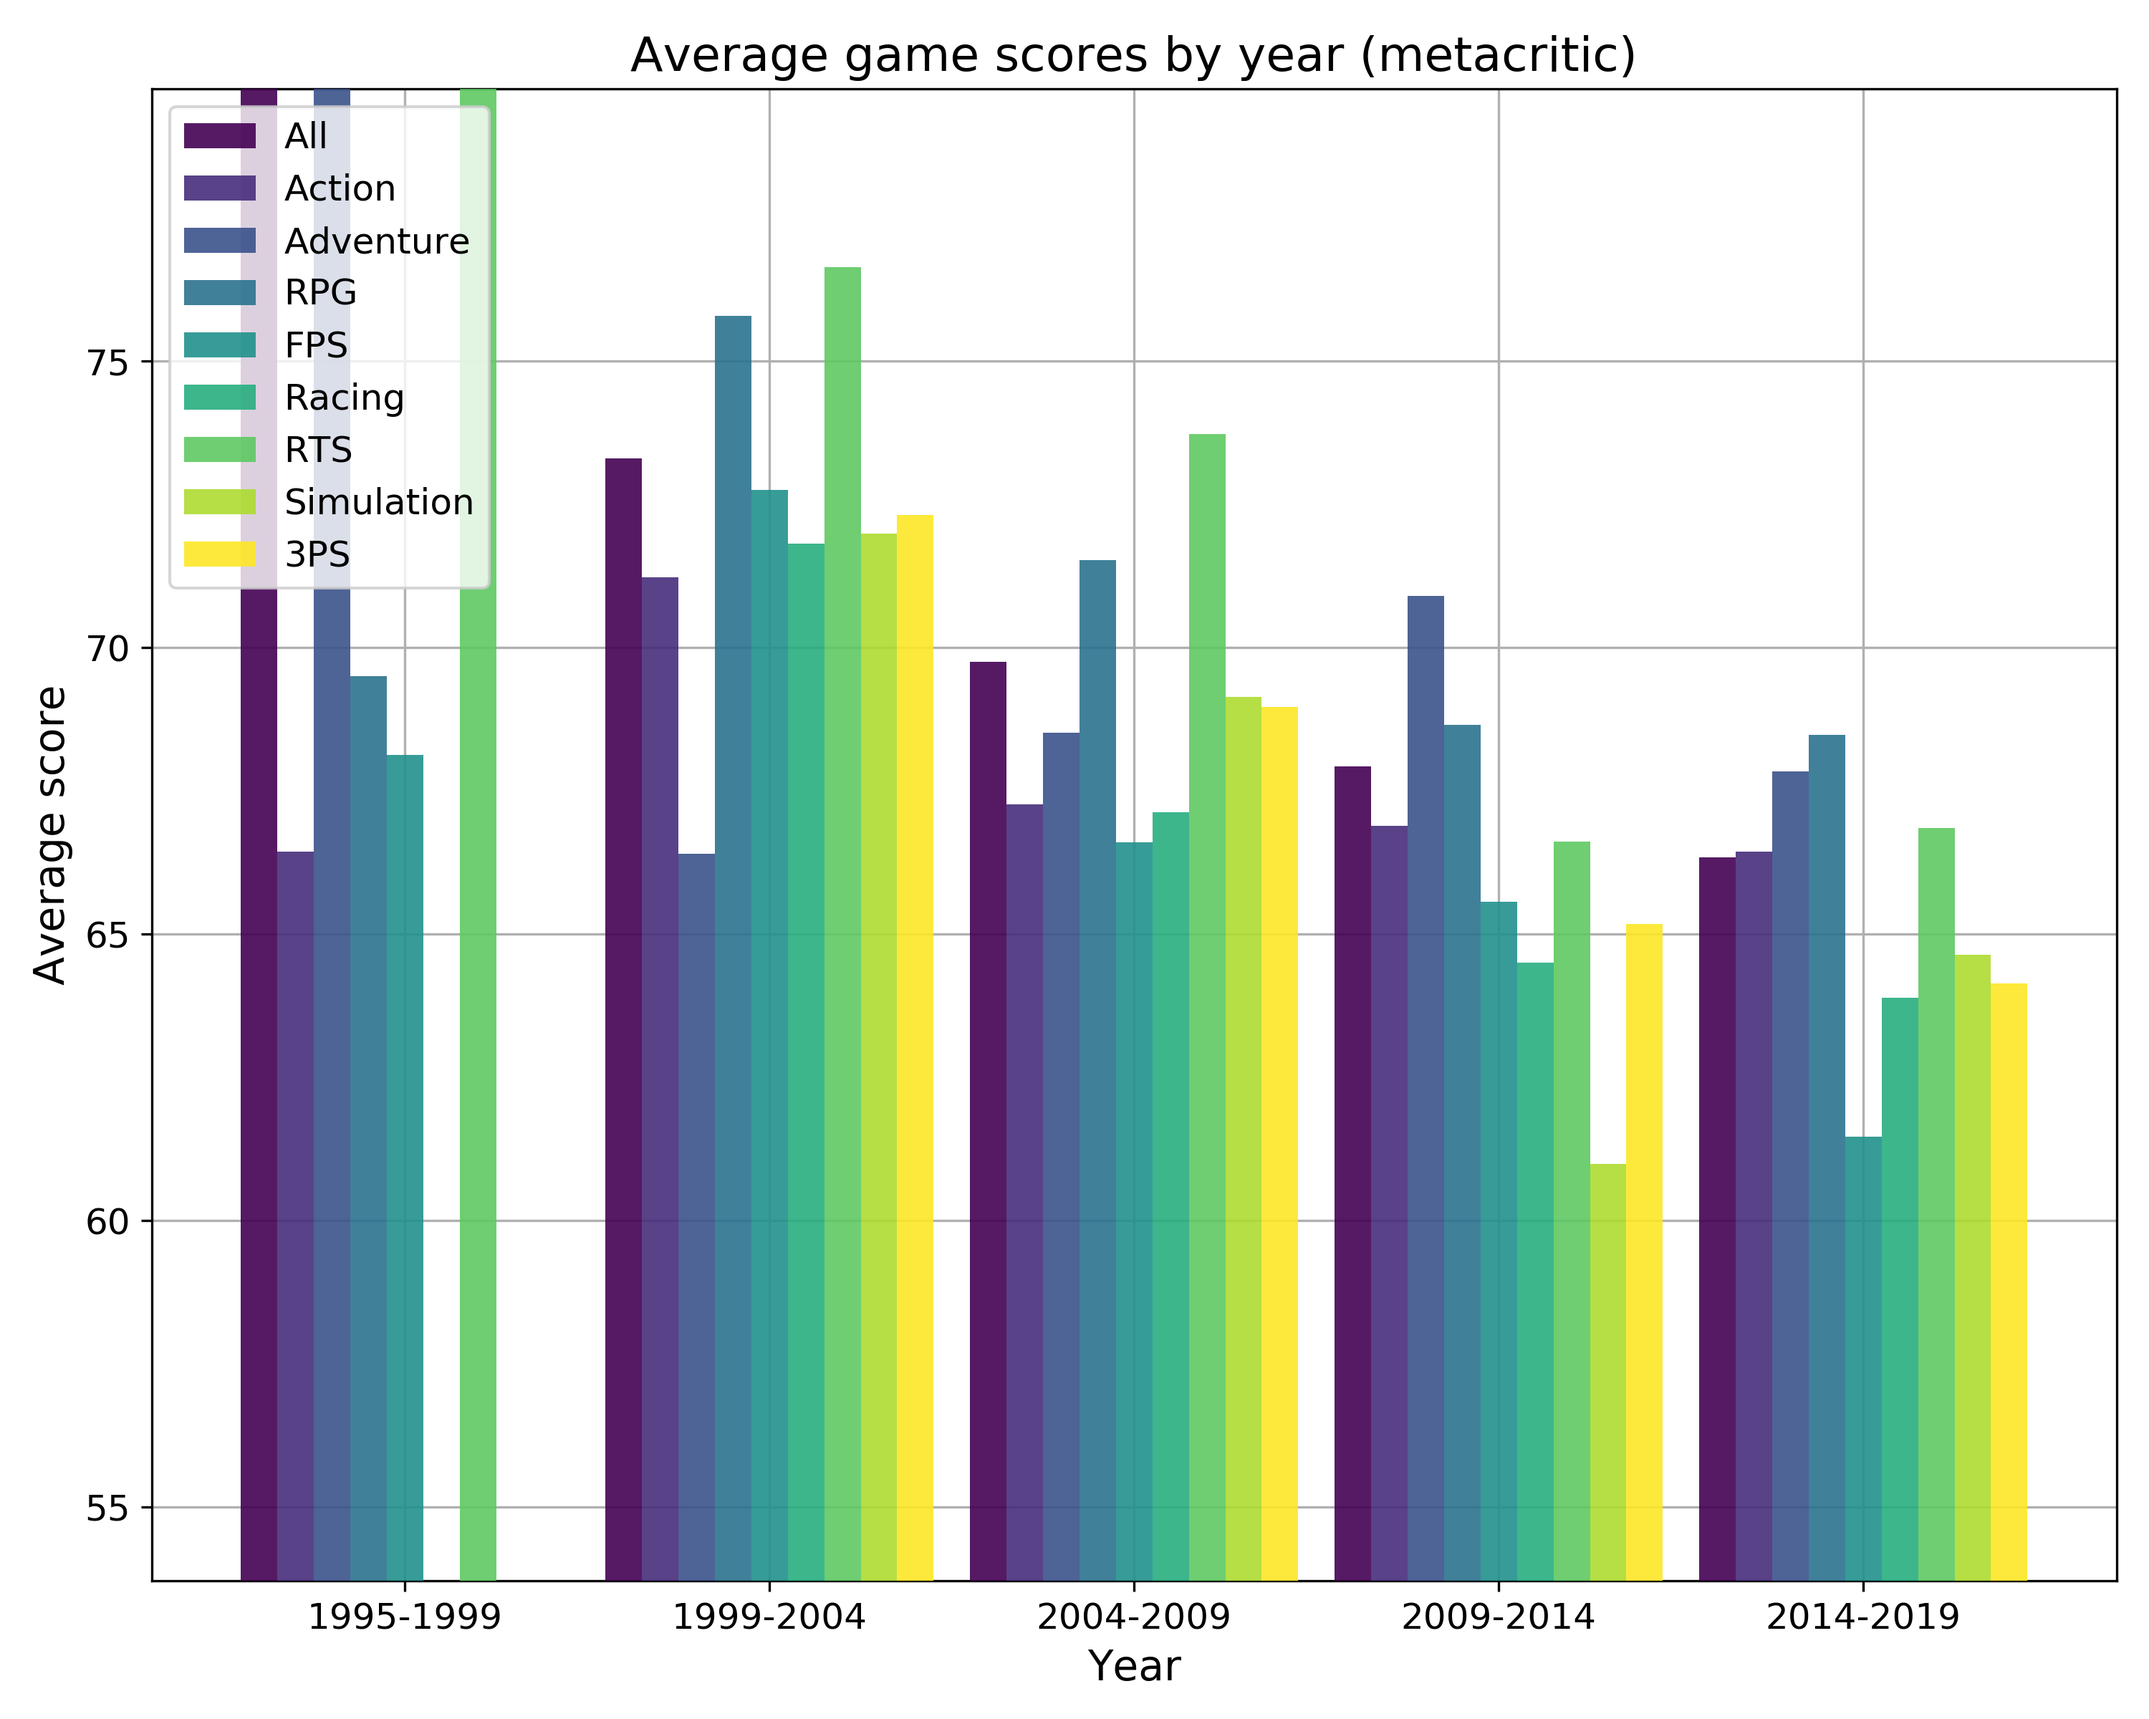
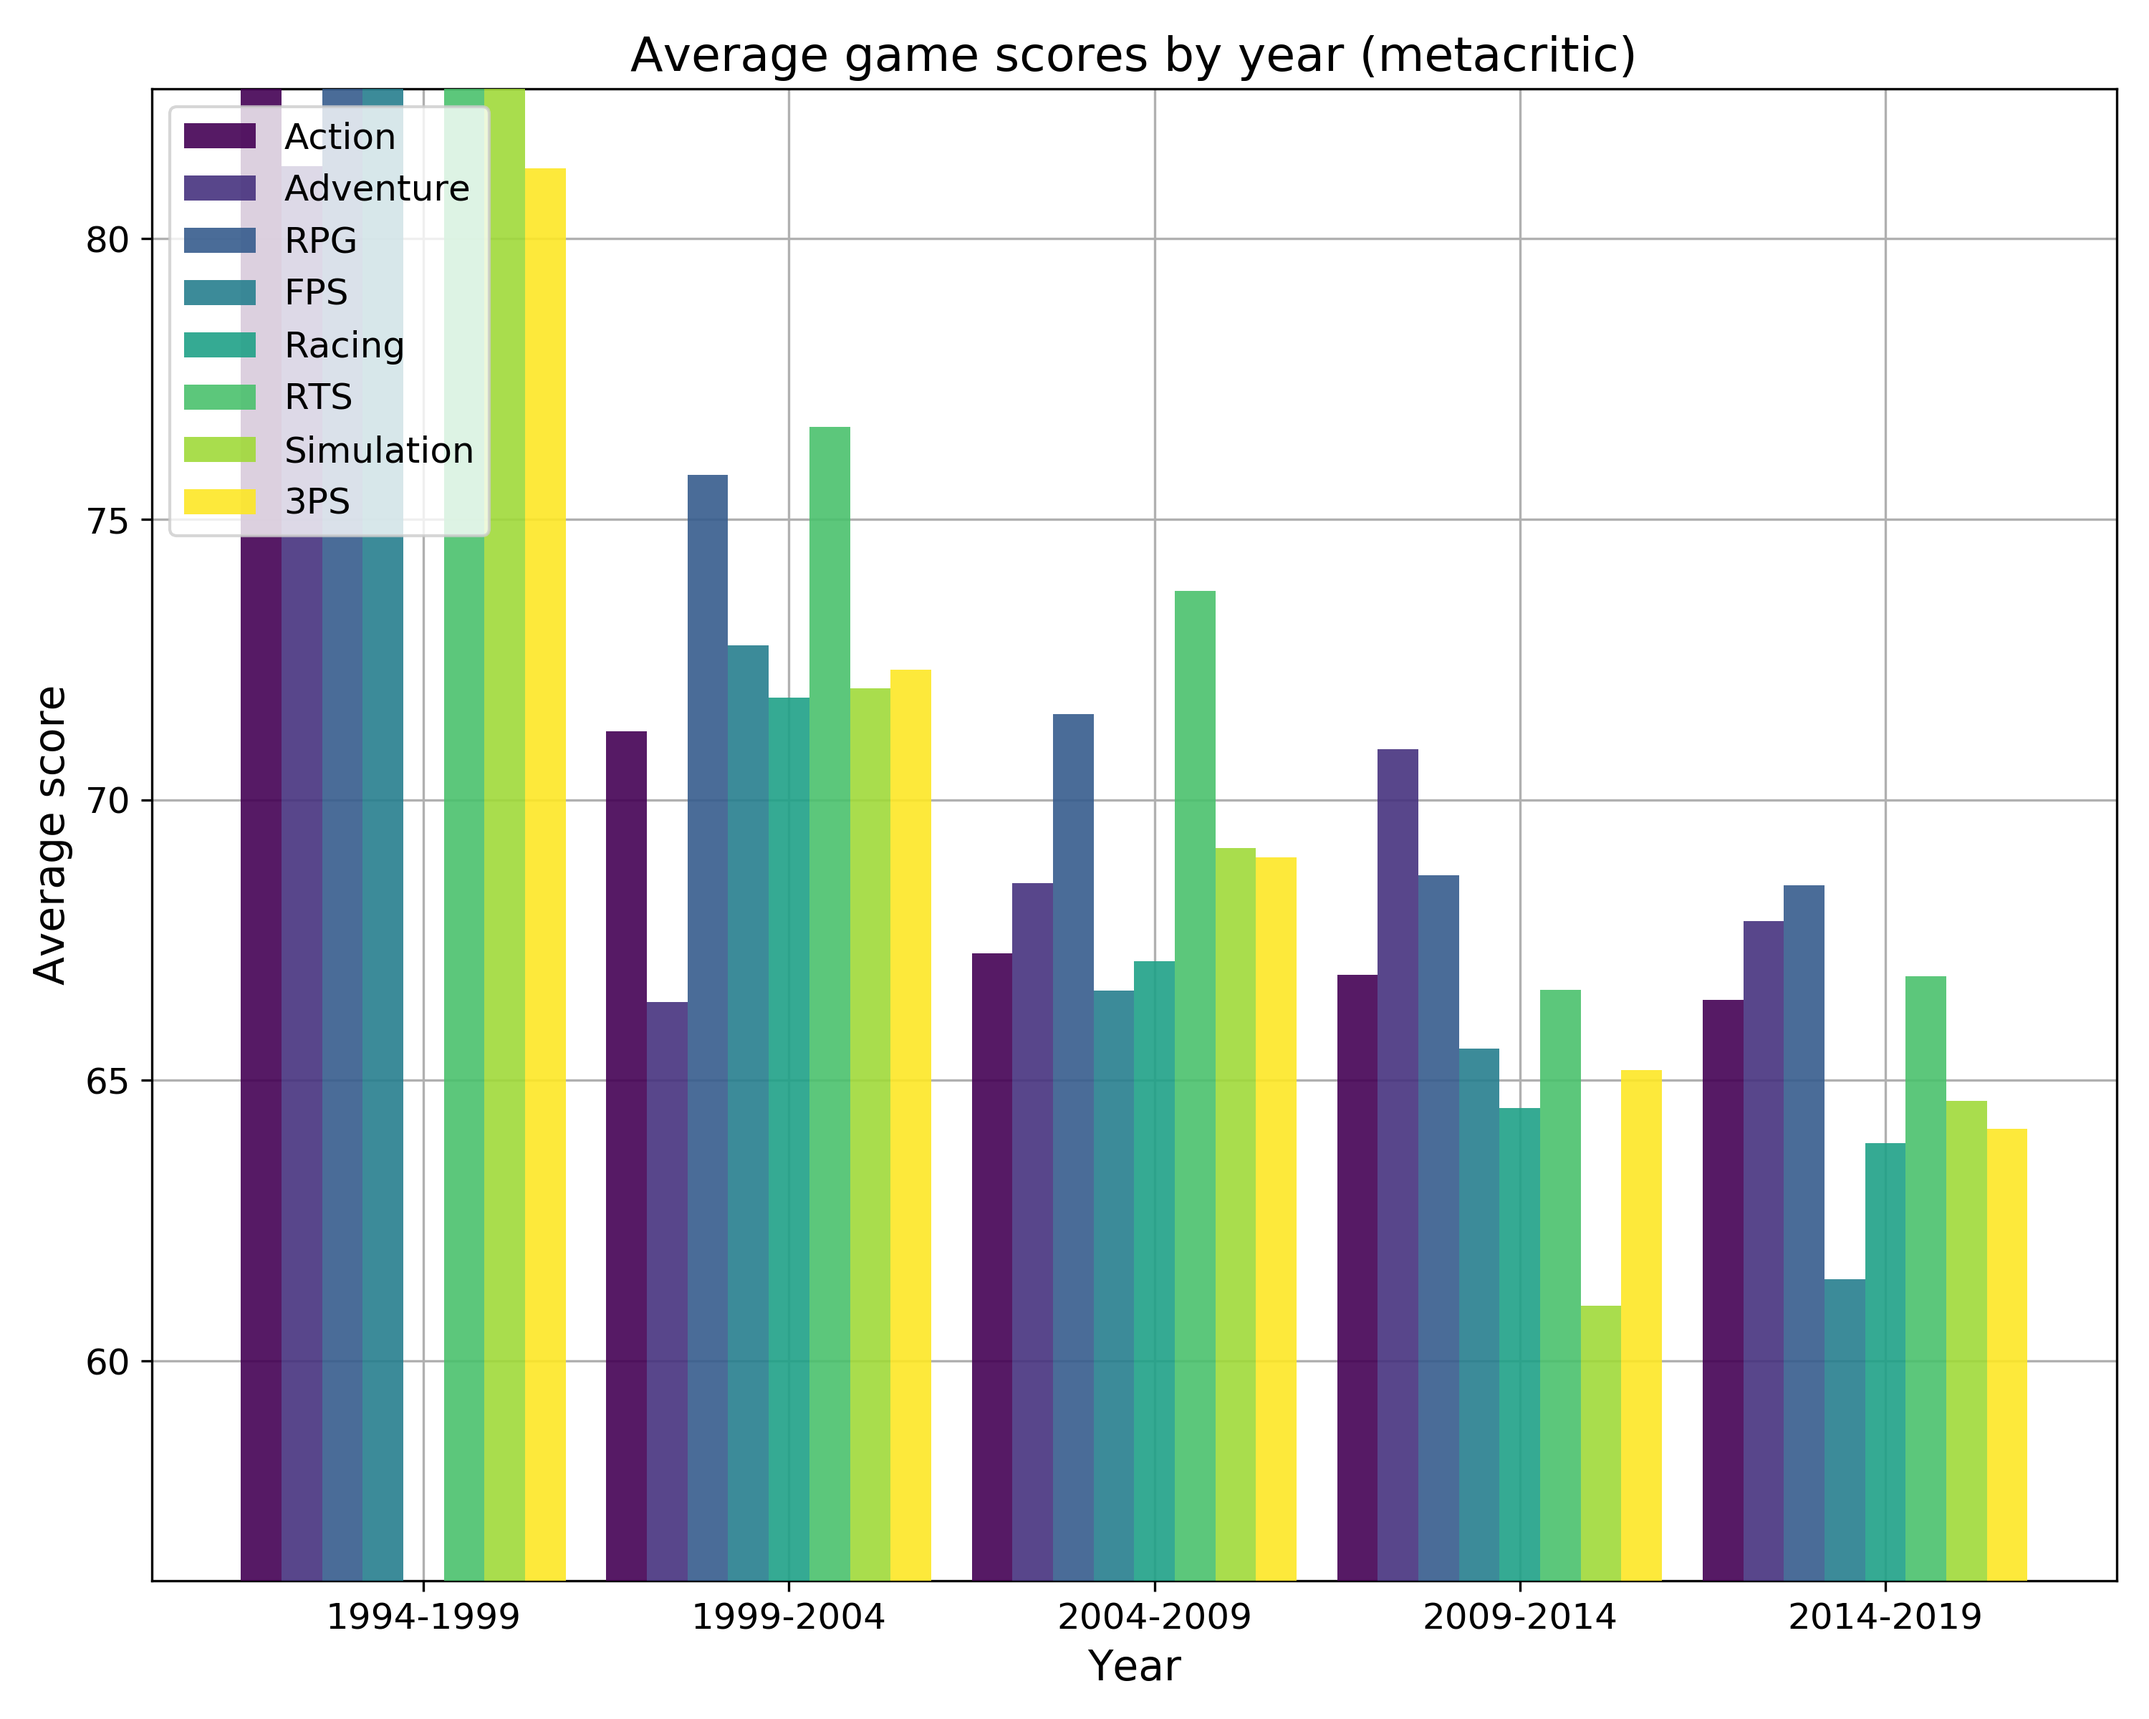
added results over min score (e.g. greater than 80) fixed averaging per genre and time frame (0 cases)

diff --git a/process_compare.py b/process_compare.py
@@ -29,6 +29,15 @@ def load_titles_per_year(df, source, label):
     return [years, scores]
 
 
+def get_score(s):
+    sd = 0
+    try:
+        sd = int(float(s)*10)
+    except:
+        pass
+    return sd
+
+
 def load_score_per_year(df, source, label):
 
     df = pd.DataFrame(df, columns=['release_date', 'score'])
@@ -37,16 +46,6 @@ def load_score_per_year(df, source, label):
         lambda e: int(e.split("-")[0]))
 
     df = df.drop(columns=["release_date"])
-
-    def get_score(s):
-        sd = 0
-        try:
-            sd = int(float(s)*10)
-        except:
-            pass
-        return sd
-
-    df["score"] = df["score"].apply(lambda e: get_score(e))
 
     filter = df["score"] != 0
     df = df[filter]
@@ -92,6 +91,10 @@ def load_score_per_year(df, source, label):
 
     return [years, scores]
 
+
+def save_csv(data):
+    pass
+
 # first file must be ALL
 
 
@@ -108,8 +111,16 @@ names = ["Action", "Adventure", "RPG",
 
 top_limit = None
 
+# top_limit = 1000
+# top_limit = 100
+
 plot_scores = True
 plot_scores = False
+
+min_score = None
+# min_score = 80
+# min_score = 70
+# min_score = 65
 
 n_group = 5
 
@@ -130,6 +141,12 @@ for top_limit_group in top_limit_group_vect:
 
     if top_limit_group is not None:
         filename += "_top_" + str(top_limit_group) + "_group"
+
+    if top_limit is not None:
+        filename += "_of_" + str(top_limit)
+
+    if min_score is not None:
+        filename += "_over_" + str(min_score)
 
     filename += ".png"
 
@@ -153,46 +170,49 @@ for top_limit_group in top_limit_group_vect:
 
     for i in range(len(files)):
         d = load_class_data(files[i])
-        d["score"] = d["user_score"]
 
         # user score!
         d["score"] = d["user_score"]
-        filter = d["user_score"] != "tbd"
+
+        d["score"] = d["score"].apply(lambda e: get_score(e))
+
+        filter = d["score"] != "tbd"
         d = d[filter]
+
+        if min_score is not None:
+            filter = d["score"].apply(
+                lambda e: e >= min_score)
+            d = d[filter]
 
         filter = d["release_date"].apply(
             lambda e: int(e.split("-")[0])) != 2020
 
         d = d[filter]
 
-        d = d.sort_values(by=['user_score'], ascending=False)
-
-        def get_score(s):
-            sd = 0
-            try:
-                sd = int(float(s)*10)
-            except:
-                print("exception")
-                pass
-            return sd
-
-        d["user_score"] = d["user_score"].apply(lambda e: get_score(e))
+        d = d.sort_values(by=['score'], ascending=False)
 
         if top_limit is not None:
             d = d[:top_limit]
+
+        print(len(d))
+
+        # quit()
 
         if plot_scores:
             years, scores = load_score_per_year(d, "metacritic", names[i])
         else:
             years, scores = load_titles_per_year(d, "metacritic", names[i])
 
+        # print("scores: ", scores)
+
         if not got_years:
             got_years = True
             years_all = years
+
         data.append(d)
         scores_vect.append(scores)
         years_vect.append(years)
-
+  
     # assign all to correct years index
     # some years might be missing from some datasets (interpolate required)
     scores_vect_processed = []
@@ -217,6 +237,9 @@ for top_limit_group in top_limit_group_vect:
         scores_vect_processed.append(scores_processed)
 
     # group by 5
+    # print(scores_processed)
+
+    # quit()
 
     scores_vect_processed_grouped = []
     years_grouped = []
@@ -243,6 +266,7 @@ for top_limit_group in top_limit_group_vect:
     for i in range(len(files)):
         print(files[i])
         i_group = 0
+        i_group_avg = 0
         group_count = 0
         avg_score = 0
         scores_processed_grouped = []
@@ -250,11 +274,14 @@ for top_limit_group in top_limit_group_vect:
         for j, y in enumerate(years_all):
             # print(y)
             crt_score = scores_vect_processed[i][j]
+            # print(crt_score >= min_score)
             group_scores.append(crt_score)
             avg_score += crt_score
             i_group += 1
+            if crt_score > 0:
+                i_group_avg += 1
 
-            if i_group >= n_group or j == len(years_all):
+            if (i_group >= n_group) or (j == len(years_all)):
                 group_count += 1
 
                 group_scores = sorted(group_scores, reverse=True)
@@ -262,14 +289,18 @@ for top_limit_group in top_limit_group_vect:
                 if top_limit_group is not None:
                     group_scores = group_scores[:top_limit_group]
                     # print(len(group_scores))
-                    avg_score = sum(group_scores)/len(group_scores)
+                    avg_score = sum(group_scores) / len(group_scores)
                 else:
-                    avg_score /= i_group
+                    if i_group_avg > 0:
+                        avg_score /= i_group_avg
+                    else:
+                        avg_score = 0
 
                 scores_processed_grouped.append(avg_score)
-                print(group_count, i_group, avg_score)
+                print(group_count, i_group_avg, avg_score)
                 avg_score = 0
                 i_group = 0
+                i_group_avg = 0
                 group_scores = []
 
         scores_vect_processed_grouped.append(scores_processed_grouped)
@@ -289,6 +320,8 @@ for top_limit_group in top_limit_group_vect:
 
     print(avg_score_disp)
     print(stdev_score_disp)
+
+    print(scores_vect_processed_grouped)
 
     # quit()
     # plot_barchart_multi_core(scores_vect_processed_grouped, color_scheme, names, "Year", "Score",
@@ -315,7 +348,6 @@ for top_limit_group in top_limit_group_vect:
 
         fig, _ = plot_barchart_multi_core(scores_vect_processed_grouped, color_scheme, names, "Year", "Number of titles",
                                           "Number of titles by year (metacritic)", years_grouped, None, True, None, 0, None)
-
 
         fig.savefig(filename, dpi=300)
     # plot_barchart_multi_core(scores_vect_processed_grouped, color_scheme, names, "Year", "Score",

diff --git a/process.py b/process.py
@@ -42,6 +42,13 @@ def plot_titles_per_year(df, source, label):
 
     plt.show()
 
+def get_score(s):
+    sd = 0
+    try:
+        sd = int(float(s)*10)
+    except:
+        pass
+    return sd
 
 def plot_score_per_year(df, source, label):
 
@@ -51,16 +58,6 @@ def plot_score_per_year(df, source, label):
         lambda e: int(e.split("-")[0]))
 
     df = df.drop(columns=["release_date"])
-
-    def get_score(s):
-        sd = 0
-        try:
-            sd = int(float(s)*10)
-        except:
-            pass
-        return sd
-
-    df["score"] = df["score"].apply(lambda e: get_score(e))
 
     filter = df["score"] != 0
     df = df[filter]
@@ -138,35 +135,52 @@ with open("config.json", "r") as f:
 top_limit = None
 # top_limit = 1000
 
-# class_data = load_class_data("./data/metacritic_rpg/class_data.csv")
-# class_data = load_class_data("./data/metacritic_fps/class_data.csv")
-# class_data = load_class_data("./data/metacritic_racing/class_data.csv")
-# class_data = load_class_data("./data/metacritic_rts/class_data.csv")
-class_data = load_class_data("./data/metacritic/class_data.csv")
+min_score = None
+min_score = 80
+# min_score = 70
+# min_score = 65
+
+# d = load_class_data("./data/metacritic_rpg/class_data.csv")
+# d = load_class_data("./data/metacritic_fps/class_data.csv")
+# d = load_class_data("./data/metacritic_racing/class_data.csv")
+# d = load_class_data("./data/metacritic_rts/class_data.csv")
+d = load_class_data("./data/metacritic/class_data.csv")
 
 class_name = "all_user"
 
 # user score!
-class_data["score"] = class_data["user_score"]
-filter = class_data["user_score"] != "tbd"
-class_data = class_data[filter]
+d["score"] = d["user_score"]
 
-filter = class_data["release_date"].apply(
+filter = d["score"] != "tbd"
+d = d[filter]
+
+d["score"] = d["score"].apply(lambda e: get_score(e))
+
+filter = d["release_date"].apply(
         lambda e: int(e.split("-")[0])) != 2020
     
-class_data = class_data[filter]
+d = d[filter]
 
-class_data = class_data.sort_values(by=['score'], ascending=False)
+d = d.sort_values(by=['score'], ascending=False)
 
 if top_limit is not None:
-    class_data = class_data[:top_limit]
+    d = d[:top_limit]
 
-print(class_data)
+
+if min_score is not None:
+    filter = d["score"].apply(
+        lambda e: e >= min_score)
+    d = d[filter]
+
+print(d)
 
 title = "metacritic"
 if top_limit is not None:
     title += " top " + str(top_limit)
     class_name += "_top_" + str(top_limit)
 
-plot_score_per_year(class_data, title, class_name)
-plot_titles_per_year(class_data, title, class_name)
+if min_score is not None:
+    class_name += "_" + str(min_score)
+
+plot_score_per_year(d, title, class_name)
+plot_titles_per_year(d, title, class_name)

diff --git a/graph.py b/graph.py
@@ -1,13 +1,14 @@
 
 import matplotlib.pyplot as plt
 import csv
+import math
 import numpy as np
 import pandas as pd
 
 FSIZE_TITLE = 16
 FSIZE_LABEL = 14
 FSIZE_LABEL_S = 14
-FSIZE_LABEL_XS = 12
+FSIZE_LABEL_XS = 14
 OPACITY = 0.9
 
 
@@ -32,7 +33,7 @@ def plot_barchart_multi_core(data, colors, labels, xlabel, ylabel, title, xlabel
             offset = bar_width / 2
         else:
             # offset = -bar_width / n_groups
-            offset = -1 / ((n_groups + 1) / 2) -bar_width
+            offset = -1 / ((n_groups + 1) / 2) - bar_width
             # offset = 0
             # pass
 
@@ -93,12 +94,18 @@ def plot_barchart_multi_core(data, colors, labels, xlabel, ylabel, title, xlabel
     # kscale = 0.25
     kscale = 0.1
 
+   
+
     if limits is not None:
         low = limits[0]
         high = limits[1]
     else:
         high += kscale * high
         low -= kscale * low
+
+    from matplotlib.ticker import MaxNLocator
+
+    ax.yaxis.set_major_locator(MaxNLocator(integer=True))
 
     plt.ylim([low, high])
 
